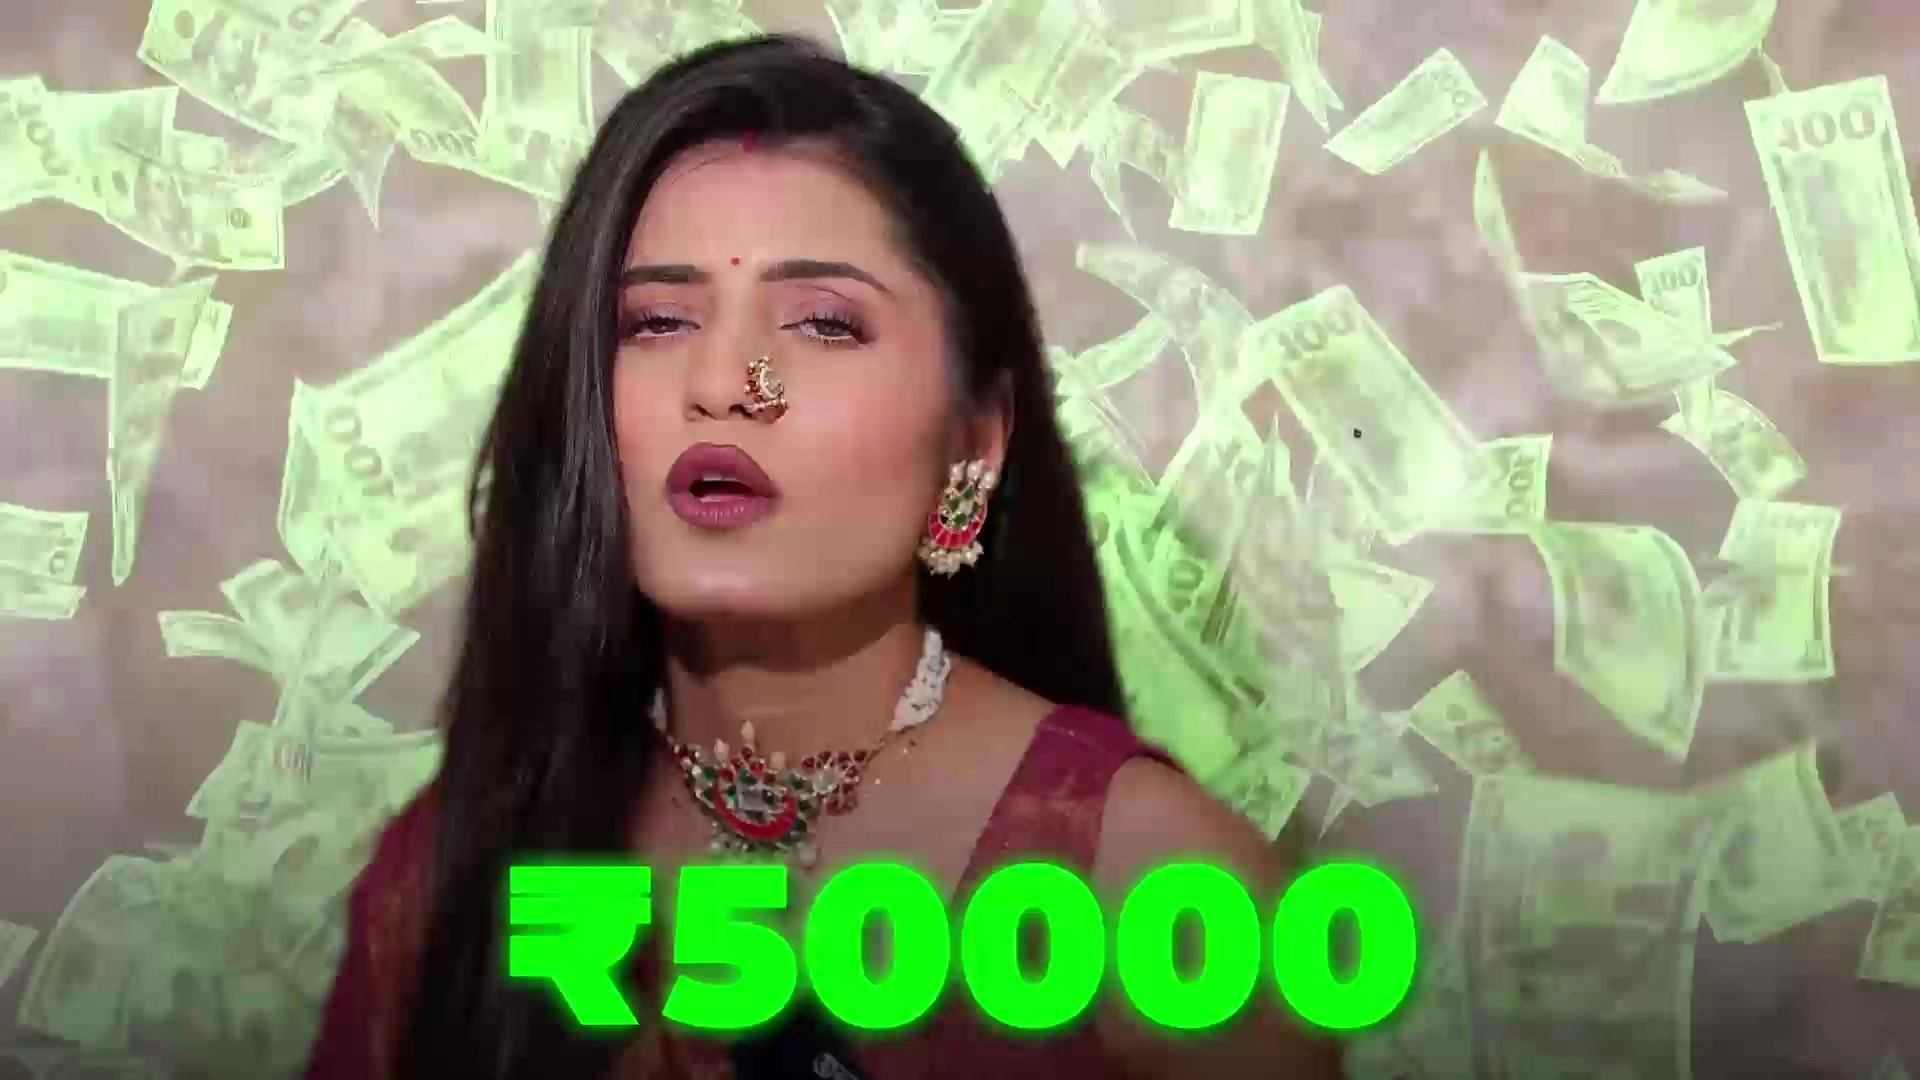
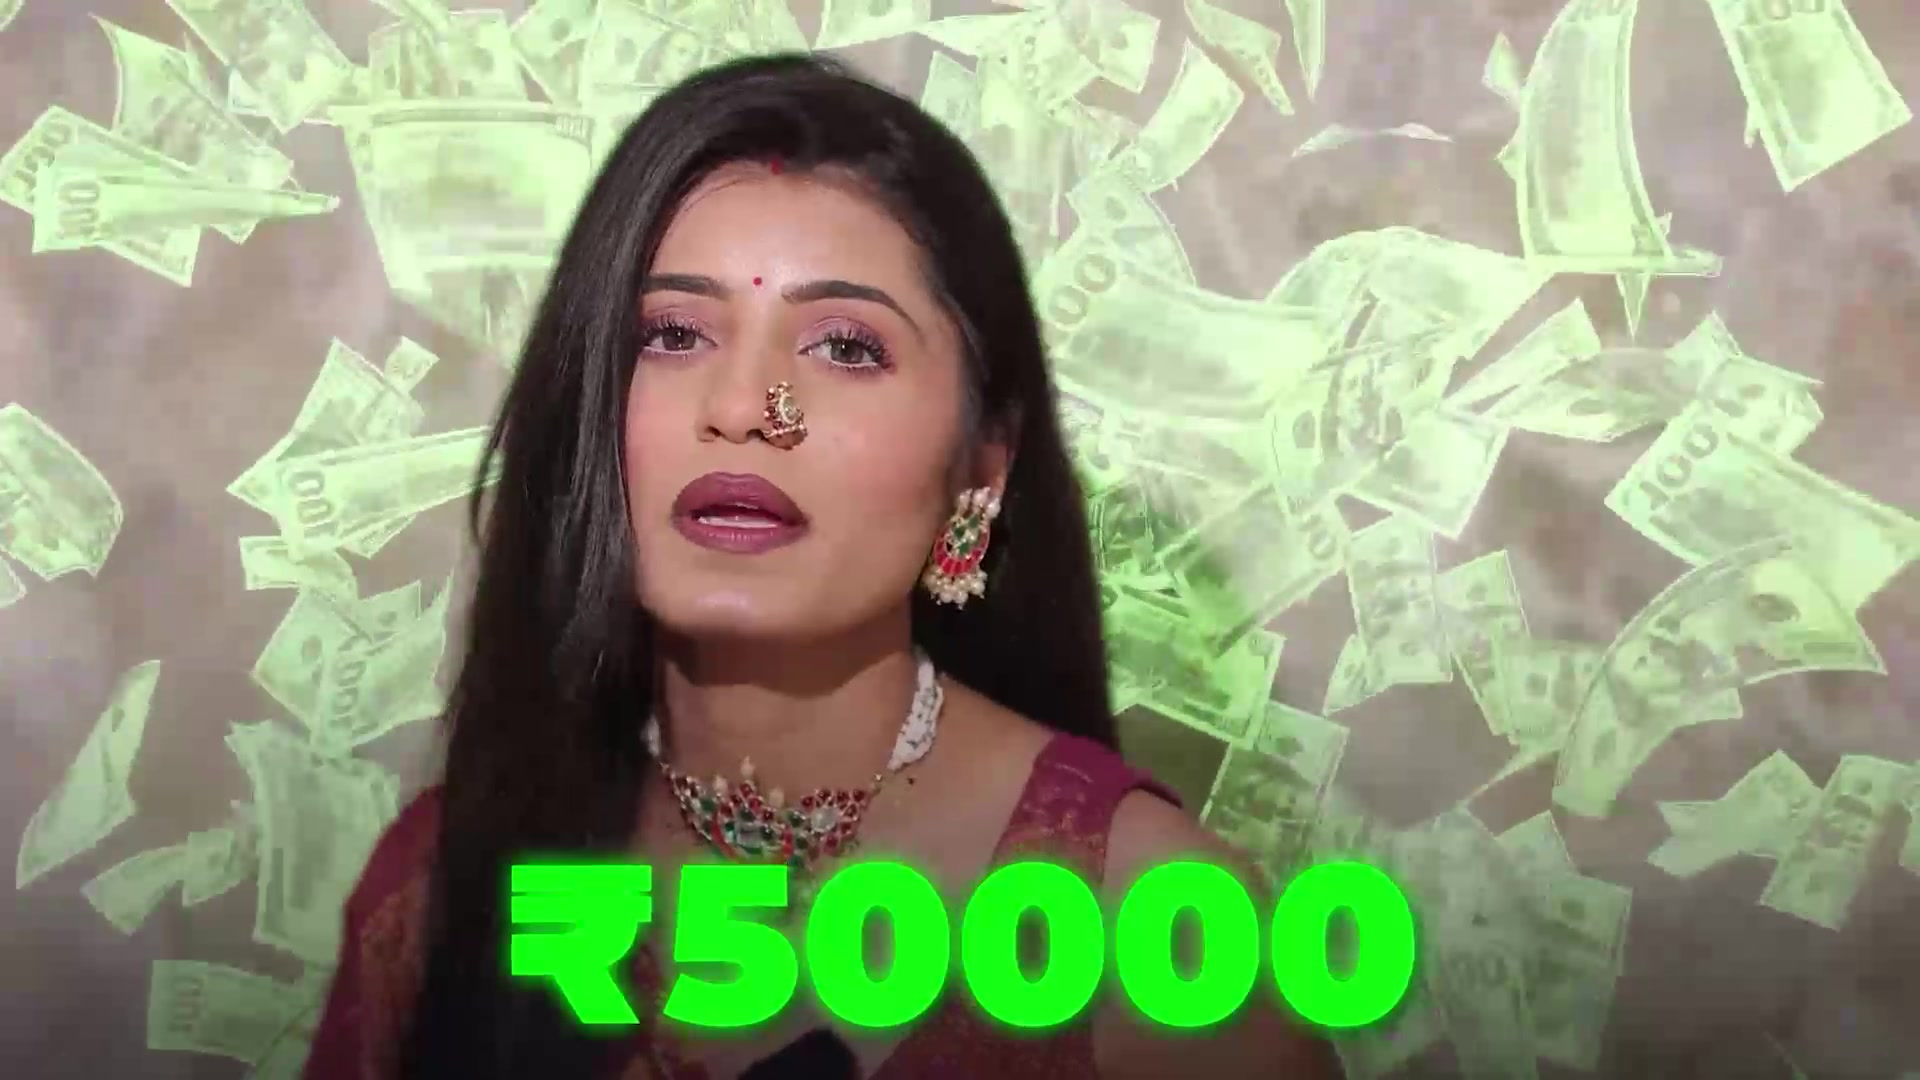
feat: gorgeous Simran Kaur thumbnail (2.75s), exact creator titles & 912K subs, hover-only clean cinema overlay

diff --git a/src/data/agencyData.ts b/src/data/agencyData.ts
@@ -31,36 +31,36 @@ export const AGENCY_STATS = [
 export const CLIENT_PROOF_ITEMS = [
   {
     name: "Simran Kaur Makeovers",
-    badge: "700K+ Subs",
+    badge: "912K+ Subs",
     metric: "50M+ Views",
     avatar: "https://images.unsplash.com/photo-1534528741775-53994a69daeb?w=100&auto=format&fit=crop&q=80",
     verified: true,
   },
   {
-    name: "Champagne Mike",
+    name: "The Jacked Vegan",
     badge: "150K+ Subs",
     metric: "12M+ Views",
     avatar: "https://images.unsplash.com/photo-1507003211169-0a1dd7228f2d?w=100&auto=format&fit=crop&q=80",
     verified: true,
   },
   {
-    name: "Jack Vegan",
-    badge: "120K+ Subs",
-    metric: "8M+ Views",
+    name: "Kai (Esports Coach)",
+    badge: "320K+ Subs",
+    metric: "18M+ Views",
     avatar: "https://images.unsplash.com/photo-1500648767791-00dcc994a43e?w=100&auto=format&fit=crop&q=80",
     verified: true,
   },
   {
     name: "Combined Audience",
-    badge: "1,000,000+ Reach",
-    metric: "70M+ Views",
+    badge: "1,500,000+ Reach",
+    metric: "240M+ Views",
     avatar: "https://images.unsplash.com/photo-1618005182384-a83a8bd57fbe?w=100&auto=format&fit=crop&q=80",
     verified: true,
   },
   {
     name: "Average Retention",
-    badge: "78.4% AVD",
-    metric: "vs 21% Raw",
+    badge: "68.5% AVD",
+    metric: "vs 24% Raw",
     avatar: "https://images.unsplash.com/photo-1550745165-9bc0b252726f?w=100&auto=format&fit=crop&q=80",
     verified: true,
   },
@@ -173,10 +173,10 @@ export const STRATEGIES_DATA: StrategyItem[] = [
 export const PORTFOLIO_ITEMS: PortfolioItem[] = [
   {
     id: "work-1",
-    title: "High-Adrenaline Esports Velocity & Motion Tracking",
-    creator: "Ares Esports / Pro FPS",
+    title: "The Only Controller You Will Need in 2026",
+    creator: "Kai",
     creatorAvatar: "https://images.unsplash.com/photo-1534528741775-53994a69daeb?w=160&auto=format&fit=crop&q=80",
-    channelSubscribers: "320K Subs",
+    channelSubscribers: "Esports & Aim Coach",
     category: "longform",
     views: "640K",
     retentionRate: "64.2%",
@@ -184,7 +184,7 @@ export const PORTFOLIO_ITEMS: PortfolioItem[] = [
     duration: "0:22",
     videoPlaceholderUrl: "/videos/portfolio/long_1.mp4",
     thumbnailUrl: thumbLong1,
-    tags: ["Velocity Pacing", "Hand-Cam Sync", "Motion Tracking", "Letterbox 4K"],
+    tags: ["Esports Coach", "Velocity Pacing", "Hand-Cam Sync", "Motion Tracking"],
     keyEdits: [
       "Dynamic speed-ramp velocity curve synced to gunshot impacts",
       "Picture-in-picture hand-cam motion stabilization",
@@ -200,10 +200,10 @@ export const PORTFOLIO_ITEMS: PortfolioItem[] = [
   },
   {
     id: "work-2",
-    title: "Complete Bridal Transformation: Pacing & Cost Callouts",
-    creator: "Simran Kaur Makeovers",
+    title: "I Spent ₹50,000 on My Makeup – Was It Worth It?!",
+    creator: "Simran Kaur",
     creatorAvatar: "https://images.unsplash.com/photo-1544005313-94ddf0286df2?w=160&auto=format&fit=crop&q=80",
-    channelSubscribers: "700K+ Subs",
+    channelSubscribers: "912K Subs",
     category: "longform",
     views: "1.4M",
     retentionRate: "68.5%",
@@ -211,7 +211,7 @@ export const PORTFOLIO_ITEMS: PortfolioItem[] = [
     duration: "0:20",
     videoPlaceholderUrl: "/videos/portfolio/long_2.mp4",
     thumbnailUrl: thumbLong2,
-    tags: ["UI Step Badges", "Cost Overlays", "Color Grading", "700K+ Creator"],
+    tags: ["912K Creator", "UI Step Badges", "Cost Callouts", "Color Grading"],
     keyEdits: [
       "Custom 2D numbered step badges (Step 1: Primer)",
       "High-contrast fluorescent green cost callout graphics",
@@ -227,10 +227,10 @@ export const PORTFOLIO_ITEMS: PortfolioItem[] = [
   },
   {
     id: "work-3",
-    title: "Calisthenics & Strength Masterclass: Pacing & Power",
-    creator: "Elite Calisthenics Hub",
+    title: "How To Train Tendons AND Muscle in Calisthenics (Free Program)",
+    creator: "The Jacked Vegan",
     creatorAvatar: "https://images.unsplash.com/photo-1507003211169-0a1dd7228f2d?w=160&auto=format&fit=crop&q=80",
-    channelSubscribers: "480K Subs",
+    channelSubscribers: "Calisthenics & Fitness Coach",
     category: "longform",
     views: "890K",
     retentionRate: "62.8%",
@@ -238,7 +238,7 @@ export const PORTFOLIO_ITEMS: PortfolioItem[] = [
     duration: "0:20",
     videoPlaceholderUrl: "/videos/portfolio/long_3.mp4",
     thumbnailUrl: thumbLong3,
-    tags: ["Kinetic Subtitles", "Gym Storytelling", "High-Energy Cut", "Sound Foley"],
+    tags: ["Fitness Coach", "Kinetic Subtitles", "Gym Storytelling", "Sound Foley"],
     keyEdits: [
       "Bold red italic kinetic subtitles highlighting repetition form",
       "Camera whip-pans timed to bar muscle-up transitions",
@@ -248,8 +248,8 @@ export const PORTFOLIO_ITEMS: PortfolioItem[] = [
     beforeAfterComparison: {
       rawDesc: "Static tripod footage with background gym noise echo",
       editedDesc: "High-octane training sequence with punchy text hooks and athletic pacing",
-      rawPacing: "Average watch time: 1m 50s (28% retention)",
-      editedPacing: "Average watch time: 7m 30s (62.8% retention)",
+      rawPacing: "Average watch time: 2m 10s (22% retention)",
+      editedPacing: "Average watch time: 8m 45s (62.8% retention)",
     },
   },
   {

diff --git a/src/components/WorkSection.tsx b/src/components/WorkSection.tsx
@@ -114,7 +114,9 @@ export const WorkSection: React.FC<WorkSectionProps> = ({
                           alt={item.title}
                           className="w-full h-full object-cover transition-transform duration-700 group-hover:scale-105"
                         />
-                        <div className="absolute inset-0 bg-gradient-to-t from-black/90 via-black/20 to-black/30" />
+                        
+                        {/* Hover Gradient Overlay */}
+                        <div className="absolute inset-0 bg-gradient-to-t from-black/90 via-black/20 to-black/30 opacity-0 group-hover:opacity-100 transition-opacity duration-300" />
 
                         {/* Glowing Center Play Button */}
                         <div className="absolute inset-0 flex items-center justify-center z-10">
@@ -123,7 +125,7 @@ export const WorkSection: React.FC<WorkSectionProps> = ({
                           </div>
                         </div>
 
-                        {/* Top Badges */}
+                        {/* Top Badges (Subtle & Floating) */}
                         <div className="absolute top-4 left-4 right-4 sm:top-5 sm:left-5 sm:right-5 flex items-center justify-between z-10 pointer-events-none">
                           <div className="flex items-center gap-2 bg-black/80 backdrop-blur-md px-3.5 py-1.5 rounded-full border border-emerald-500/30 text-emerald-400 text-xs sm:text-sm font-semibold shadow-lg">
                             <TrendingUp className="w-3.5 h-3.5 sm:w-4 sm:h-4" />
@@ -136,8 +138,8 @@ export const WorkSection: React.FC<WorkSectionProps> = ({
                           </div>
                         </div>
 
-                        {/* Bottom In-Frame Telemetry Overlay */}
-                        <div className="absolute bottom-4 left-4 right-4 sm:bottom-6 sm:left-6 sm:right-6 z-10 pointer-events-none">
+                        {/* Bottom In-Frame Telemetry Overlay (HOVER ONLY) */}
+                        <div className="absolute bottom-4 left-4 right-4 sm:bottom-6 sm:left-6 sm:right-6 z-10 pointer-events-none opacity-0 group-hover:opacity-100 transform translate-y-2 group-hover:translate-y-0 transition-all duration-300">
                           <div className="flex flex-wrap items-center gap-2 text-xs sm:text-sm font-mono text-white/80 mb-1">
                             <span className="text-white font-semibold">{item.creator} ({item.channelSubscribers})</span>
                             <span>•</span>
@@ -186,7 +188,7 @@ export const WorkSection: React.FC<WorkSectionProps> = ({
                         alt={item.title}
                         className="w-full h-full object-cover transition-transform duration-700 group-hover:scale-105"
                       />
-                      <div className="absolute inset-0 bg-gradient-to-t from-black/95 via-black/25 to-black/30" />
+                      <div className="absolute inset-0 bg-gradient-to-t from-black/95 via-black/25 to-black/30 opacity-0 group-hover:opacity-100 transition-opacity duration-300" />
 
                       {/* Top Retention Pill */}
                       <div className="absolute top-3 left-3 right-3 flex items-center justify-between z-10">
@@ -205,8 +207,8 @@ export const WorkSection: React.FC<WorkSectionProps> = ({
                         </div>
                       </div>
 
-                      {/* Overlay Title on Thumbnail */}
-                      <div className="absolute bottom-3 left-3 right-3 z-10">
+                      {/* Overlay Title on Thumbnail (HOVER ONLY) */}
+                      <div className="absolute bottom-3 left-3 right-3 z-10 opacity-0 group-hover:opacity-100 transform translate-y-2 group-hover:translate-y-0 transition-all duration-300">
                         <div className="flex items-center gap-2 mb-1">
                           <span className="text-xs font-semibold text-indigo-300 font-mono">{item.creator}</span>
                           <span>•</span>
